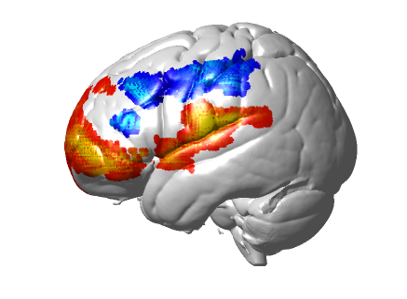
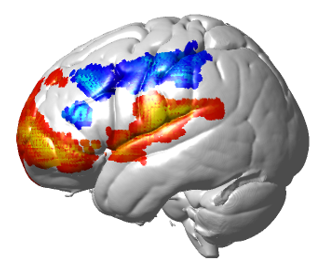
Update the public site with the revised research, lab, and lecturing pages.

diff --git a/index.html b/index.html
@@ -6,7 +6,7 @@
   <title>James Crum, PhD</title>
   <meta name="description" content="James Crum, cognitive neuroscientist and experimental psychologist at the University of Colorado Boulder.">
   <meta name="robots" content="noindex, nofollow">
-  <link rel="stylesheet" href="styles.css">
+  <link rel="stylesheet" href="styles.css?v=23">
   <link rel="icon" href="favicon.svg" type="image/svg+xml">
 </head>
 <body>
@@ -61,11 +61,30 @@
 
       <article class="block">
         <h2>Current work</h2>
-        <p>I am a cognitive neuroscientist and lecturer at the Institute of Cognitive Science and Department of Psychology and Neuroscience at the University of Colorado, Boulder. I research the neurocognitive mechanisms of cognitive security, such as how the brain is exploited by and defends against information-based threats/cognitive attacks, and what makes people more susceptible and resilient to such things during human-computer interactions. More specifically, I am a lead member of the System-Human-Interaction-NIRS-EEG (SHINE) Lab at CU, where we use mixed methods (e.g., fMRI, fNIRS, eye-tracking, machine learning, behavioral data, psychometric data, etc.) to study cognition in real-world scenarios and environments, and we are currently developing an AI companion that uses these types of data to intervene and assist people in cognitive security situations.</p>
-        <p>The measurements now are in the <a href="https://www.colorado.edu/lab/shine/people" target="_blank" rel="noopener noreferrer">SHINE Lab</a>, System-Human Interaction with NIRS and EEG, directed by Leanne Hirshfield. I record with conventional fNIRS on an AFOSR MURI on cognitive security. Hirshfield is the principal investigator. The studies put judgment in high- and low-information settings, with another person and with an AI, from a controlled task toward a more ordinary one. The lab page has the preliminary synchrony plots and the equipment proposal that would make those recordings high-density.</p>
         <a class="mark-link" href="https://www.colorado.edu/lab/shine/people" target="_blank" rel="noopener noreferrer"><img src="images/shine.png" alt="The SHINE Lab banner: System-Human Interaction with NIRS and EEG"></a>
-        <p>Cognitive Compass is an AI-augmented tool for reasoning and metacognition. I lead that work. The three screens are one internal-testing profile: a welcome and scenario path, four summary scores, and the subscales. They are not a published norm.</p>
+        <p>My research appointment is in the <a href="https://www.colorado.edu/ics/james-crum" target="_blank" rel="noopener noreferrer">Institute of Cognitive Science</a>. I am a cognitive neuroscientist and lecturer at the Institute of Cognitive Science and Department of Psychology and Neuroscience at the University of Colorado, Boulder. I research the neurocognitive mechanisms of cognitive security, such as how the brain is exploited by and defends against information-based threats/cognitive attacks, and what makes people more susceptible and resilient to such things during human-computer interactions. More specifically, I am a lead member of the System-Human-Interaction-NIRS-EEG <a href="https://www.colorado.edu/lab/shine/people" target="_blank" rel="noopener noreferrer">(SHINE) Lab</a> at CU, where we use mixed methods (e.g., fMRI, fNIRS, eye-tracking, machine learning, behavioral data, psychometric data, etc.) to study cognition in real-world scenarios and environments.</p>
+      </article>
+
+      <article class="block">
+        <h2>Ecologically-valid mixed methods</h2>
+        <p>Cognitive security is measured across settings, not in one stripped-down task. The same question is carried from a scanner, to a wearable recording of more natural behavior, to a real situation, and the person, the information environment, and the brain response are kept in the account.</p>
+        <div class="eco-pair">
+          <img class="eco-fit" src="images/eco-gradient.png" alt="Three settings of increasing ecological validity: a scanner, a person wearing a measurement cap, and two people in an ordinary setting">
+          <img src="images/info-env-b.png" alt="Panel b of the digital information environment, with occupational context, personal context, psychological susceptibility, and neurophysiological state around a person using a phone">
+        </div>
+        <figcaption>Fig. 2. Cross-laboratory adaptable testbed, beside the fuller information environment. The approach uses multimodal methods in different testing environments to investigate misinformation across a gradient of ecological validity. fMRI gives high precision for neurocognitive mechanisms. Laboratory tasks with wearable methods such as fNIRS and EEG can examine those mechanisms during natural behavior. Real-world settings capture behavior and situational context that a laboratory cannot contrive. A message on a phone can be drawn as a human–computer interaction alone. The fuller account, at right, adds occupational context, personal context, psychological susceptibility, and neurophysiological state. Linking manipulations and outcomes across methods and settings is how the work addresses what people do with misinformation in ordinary life. <a href="https://rdcu.be/dWeGO" target="_blank" rel="noopener noreferrer">Crum, Spencer, Doherty, Richardson, Sherman, Hays, Saxena, Niemeyer, Anderson, Čeko, and Hirshfield, 2024</a>, <cite>Nature Human Behaviour</cite>.</figcaption>
+        <h3>Cognitive security framework and exploitable brain structures</h3>
+        <div class="fw-pair">
+          <img src="images/framework-composite.png" alt="Four framework icons and their color key in cyan, yellow, green, and pink">
+          <img src="images/exploitable-brain.png" alt="Lateral and medial brain views colored for executive function, affect generation, and multimodal integration">
+        </div>
+        <figcaption>The four parts of the framework, with their color key: what the person brings, the information environment, the processes recruited in the moment, and the observable performance. Below, regions in that framework. Blue marks executive function, including rostral, dorsolateral, and ventrolateral prefrontal cortex. Red marks affect generation, including the amygdala. Green marks multimodal integration, including parietal and temporal cortex.</figcaption>
+        <p><a href="https://doi.org/10.1016/j.neubiorev.2025.106448" target="_blank" rel="noopener noreferrer">Crum, Allred, Bostrom, Doherty, McLain, Richardson, and Hirshfield, 2025</a>. Understanding the neurocognitive mechanisms of cognitive security. <cite>Neuroscience &amp; Biobehavioral Reviews</cite>, 106448.</p>
+      </article>
+
+      <article class="block">
         <h3>AI-augmented human processing</h3>
+        <p>We are developing Cognitive Compass, an AI companion that uses these data to support the cognitive security of individuals and teams in different contexts and environments by facilitating reasoning, metacognition, and other forms of protective processing. I lead the intervention strategy vision, the user interface design and front end, the selection of features, and AI evaluation. The three screens below are one internal-testing profile: a welcome and scenario path, four summary scores, and the subscales. They are not a published norm.</p>
         <div class="compass-board">
           <div class="compass-top">
             <figure>
@@ -84,21 +103,28 @@
         </div>
       </article>
 
-      <article class="block">
-        <h2>Ecologically-valid mixed methods</h2>
-        <p>Misinformation and cognitive security are measured across settings, not in one stripped-down task. The same question is carried from a scanner, to a wearable recording of more natural behavior, to a real situation, and the person, the information environment, and the brain response are kept in the account.</p>
-        <img class="eco-fit" src="images/eco-gradient.png" alt="Three settings of increasing ecological validity: a scanner, a person wearing a measurement cap, and two people in an ordinary setting">
-        <figcaption>Fig. 2. Cross-laboratory adaptable testbed. The approach uses multimodal methods in different testing environments to investigate misinformation across a gradient of ecological validity. fMRI gives high precision for neurocognitive mechanisms. Laboratory tasks with wearable methods such as fNIRS and EEG can examine those mechanisms during natural behavior. Real-world settings capture behavior and situational context that a laboratory cannot contrive. Linking manipulations and outcomes across methods and settings is how the work addresses what people do with misinformation in ordinary life. <a href="https://rdcu.be/dWeGO" target="_blank" rel="noopener noreferrer">Crum, Spencer, Doherty, Richardson, Sherman, Hays, Saxena, Niemeyer, Anderson, Čeko, and Hirshfield, 2024</a>, <cite>Nature Human Behaviour</cite>.</figcaption>
-        <img class="wide" src="images/info-env.png" alt="Diagram of a digital information environment, from a phone alone to occupational context, personal context, psychological susceptibility, and neurophysiological state">
-        <figcaption>A message on a phone can be drawn as a human–computer interaction alone (a). The fuller account adds occupational context, personal context, psychological susceptibility, and neurophysiological state (b). Crum and others, 2024, <cite>Nature Human Behaviour</cite>.</figcaption>
-        <h3>Cognitive security framework</h3>
-        <img src="images/framework-composite.png" alt="Four framework icons and their color key in cyan, yellow, green, and pink">
-        <figcaption>The four parts of the framework, with their color key: what the person brings, the information environment, the processes recruited in the moment, and the observable performance.</figcaption>
-        <p><a href="https://doi.org/10.1016/j.neubiorev.2025.106448" target="_blank" rel="noopener noreferrer">Crum, Allred, Bostrom, Doherty, McLain, Richardson, and Hirshfield, 2025</a>. Understanding the neurocognitive mechanisms of cognitive security. <cite>Neuroscience &amp; Biobehavioral Reviews</cite>, 106448.</p>
-        <h3>Exploitable brain structures</h3>
-        <img class="wide" src="images/exploitable-brain.png" alt="Lateral and medial brain views colored for executive function, affect generation, and multimodal integration">
-        <figcaption>Regions in the 2025 framework. Blue marks executive function, including rostral, dorsolateral, and ventrolateral prefrontal cortex. Red marks affect generation, including the amygdala. Green marks multimodal integration, including parietal and temporal cortex. Crum and others, 2025, <cite>Neuroscience &amp; Biobehavioral Reviews</cite>.</figcaption>
-      </article>
+      <section class="section">
+        <h2>Talks and events</h2>
+        <p>Linked items have a public page. The others are invited talks and briefings from the curriculum vitae.</p>
+        <figure class="talk-feature">
+          <img src="images/cognectcon.jpg" alt="James Crum speaking at a podium during CognectCon, with a slide introducing his talk on the neurocognitive mechanisms of cognitive security">
+          <figcaption>Speaking at CognectCon for the Cognitive Security Institute, February 2026. The talk was on the neurocognitive mechanisms of cognitive security and what they imply for research and practice.</figcaption>
+        </figure>
+        <ol class="papers">
+          <li><a href="https://www.colorado.edu/psych-neuro/2026/01/06/james-crum-explores-resilience-disinformation-sciencedirect" target="_blank" rel="noopener noreferrer">James Crum explores resilience to disinformation in ScienceDirect</a><span>Department of Psychology and Neuroscience, University of Colorado Boulder. January 6, 2026.</span></li>
+          <li>Cognitive security<span>Invited briefing, NATO Cognitive Warfare Group. 2026.</span></li>
+          <li>Cognitive security and its mitigation<span>Invited talk, Trust and Influence Program Review, Air Force Office of Scientific Research, Albuquerque, New Mexico. 2026.</span></li>
+          <li>Understanding the neurocognitive mechanisms of individual cognitive security<span>Invited talk, Cognitive Security Institute. 2026.</span></li>
+          <li>Concurrent neuroimaging at CU: advantages, challenges, and lessons learned<span>Invited talk, Intermountain Neuroimaging Consortium, Neuroimaging Methods. 2026.</span></li>
+          <li>Understanding the neurocognitive mechanisms of cognitive security: implications for research and practice<span>Invited talk, CognectCon, a workshop of the Cognitive Security Institute and the National Institute of Standards and Technology on human-centered cybersecurity standards. February 2026.</span></li>
+          <li><a href="https://calendar.colorado.edu/event/ics-colloquium-sandra-ristovska-phd-associate-professor-college-of-media-communication-and-information-university-of-colorado-boulder" target="_blank" rel="noopener noreferrer">Using ecological neuroscience to understand cognitive security</a><span>ICS Colloquium, Institute of Cognitive Science, University of Colorado Boulder. April 18, 2025. Muenzinger Psychology, D430.</span></li>
+          <li>Cognitive security and its mitigation<span>Invited talk, Trust and Influence Program Review, Air Force Office of Scientific Research, Rome, New York. 2025.</span></li>
+          <li>Real-world neuroimaging: fNIRS and beyond<span>Invited talk, CogLunch, Institute of Cognitive Science, University of Colorado Boulder. 2024.</span></li>
+          <li>3D digitizing for fNIRS<span>Invited talk, NIRx training workshop, Denver, Colorado. 2024.</span></li>
+          <li>Cognitive security<span>Invited briefing, NATO Cognitive Warfare Group. 2024.</span></li>
+          <li>Cognitive security<span>Invited talk, U.S. Army Research Laboratory. 2024.</span></li>
+        </ol>
+      </section>
 
       <section class="section">
         <h2>Selected papers</h2>
@@ -130,7 +156,7 @@
         <li>Built the first neuroimaging course for the United States Air Force Academy, 2024.</li>
         <li>Earlier teaching at University College London: teaching assistant for The Psychology of Individual Differences, and instructor for methods workshops.</li>
       </ul>
-      <p>The research appointment is in the <a href="https://www.colorado.edu/ics/james-crum" target="_blank" rel="noopener noreferrer">Institute of Cognitive Science</a>. The teaching appointment is in Psychology and Neuroscience.</p>
+      <p>The lectureship appointment is in the Department of Psychology and Neuroscience at the University of Colorado, Boulder.</p>
     </section>
 
     <section class="view" id="lab">
@@ -152,33 +178,34 @@
       <article class="block">
         <h2>Human–AI teams under cognitive security threats</h2>
         <p>The lab studies how a small team stays coordinated with each other and with an AI when the information is incomplete, contested, or unreliable. People form and update a picture of the situation, of the AI, and of one another, then decide whether to accept or override what the AI recommends.</p>
+        <img class="diagram" src="images/team-ai.jpg" alt="Three people around a table talking over a laptop, where an AI teammate shows an uncertain recommendation">
+        <figcaption>A small team works out the situation with one another and with an AI teammate when the recommendation is uncertain.</figcaption>
         <p>The measurement is mixed. Inter-brain synchrony, from high-density diffuse optical tomography recorded in two or three people at once, is read together with speech, facial expression, gaze, and the decision. Synchrony is computed over the timescales of the interaction and compared with shuffled teams.</p>
         <p>Three questions organize the work. Synchrony should rise as a team moves from working separately to deciding together, and synchrony on the slower timescales, about 8 to 16 seconds, should track the quality of the joint decision. Unreliable AI assistance, interface anomalies, or degraded cues should change that synchrony relative to a matched baseline and worsen the accept-or-override decision. Speech, gaze, face, and behavior, added to the neural measure, should predict who stays resilient and who does not better than synchrony alone.</p>
-        <img class="wide" src="images/hai-levels.png" alt="Diagram of cognitive resilience in human-AI teams, from the information environment and threat conditions, through team processes and multimodal measurement, to outcomes such as calibrated trust and decision quality">
+        <img class="diagram" src="images/hai-levels.png" alt="Diagram of cognitive resilience in human-AI teams, from the information environment and threat conditions, through team processes and multimodal measurement, to outcomes such as calibrated trust and decision quality">
         <figcaption>Levels of analysis for this work. The information environment sets threat and target conditions. Team processes include metacognition, trust, coordination, and the human decision passed to the AI. Measurement joins dynamic inter-brain synchrony with behavior, speech, face, and gaze. The outcomes are calibrated trust, joint performance, and decision quality under uncertainty.</figcaption>
       </article>
       <article class="block">
         <h2>Naturalistic Paradigms and Inter-Brain Synchrony</h2>
         <p>The measure is inter-brain synchrony: wavelet coherence between hemodynamic signals, locked to speech and gaze, and compared with shuffled pairs. The MURI caps now are conventional fNIRS. They can show synchrony. They do not reconstruct it onto cortex the way high-density diffuse optical tomography would. The first recordings after installation would be dyads in cognitive-security tasks. Later recordings would code agreement, disagreement, and repair of a mental model, and would test whether a team-state summary can be computed while the interaction is still going. That last step is methods work. It is not a fielded tool.</p>
-        <img src="images/dyad.png" alt="Two people wearing headcaps, seated at one desk, each with a keyboard, sharing a task on a monitor">
-        <figcaption>A two-person recording of the kind this work already uses. Both people wear headgear and share a task. High-density caps replace a sparse optical montage for this recording.</figcaption>
-        <div class="pair ibs-cite">
+        <div class="sync-board">
+          <img src="images/dyad.png" alt="Two people wearing headcaps, seated at one desk, each with a keyboard, sharing a task on a monitor">
           <img src="images/ifg-coherence.png" alt="Coherence between partners in inferior frontal gyrus, with clinical and control traces across period">
           <img src="images/clinical-brain.png" alt="Lateral view of a brain with red and blue activation from a clinical interaction contrast">
         </div>
-        <figcaption>Inter-brain coherence in inferior frontal gyrus during a clinical interaction compared with a control, and the cortical contrast from the same study. Red in the plot is the clinical condition. <a href="https://doi.org/10.1016/j.bpsc.2022.01.008" target="_blank" rel="noopener noreferrer">Crum, Zhang, Noah, Hamilton, Tachtsidis, Burgess, and Hirsch, 2022</a>, <cite>Biological Psychiatry: Cognitive Neuroscience and Neuroimaging</cite>. A methods paper, not a treatment study.</figcaption>
+        <figcaption>Left, a two-person recording of the kind this work already uses. Both people wear headgear and share a task. High-density caps replace a sparse optical montage for this recording. Center, inter-brain coherence in inferior frontal gyrus during a clinical interaction compared with a control. Red is the clinical condition. Right, the cortical contrast from the same study. <a href="https://doi.org/10.1016/j.bpsc.2022.01.008" target="_blank" rel="noopener noreferrer">Crum, Zhang, Noah, Hamilton, Tachtsidis, Burgess, and Hirsch, 2022</a>, <cite>Biological Psychiatry: Cognitive Neuroscience and Neuroimaging</cite>. A methods paper, not a treatment study.</figcaption>
       </article>
 
       <div class="figure-pair">
         <article class="block">
           <h2>Social timescales</h2>
-          <img src="images/timescales.png" alt="Plot of social timescales, with frequency against period, and four bins from reactive coordination to global interaction states">
+          <img src="images/timescales.png?v=2" alt="Plot of social timescales, with frequency against period, and four bins from reactive coordination to global interaction states">
           <figcaption>Social interaction differs across timescales. Faster phenomena, such as reactive coordination, rapid mutual gestures, quick turn-taking, bursts of shared attention, and speaking while the other listens, fall at higher frequencies and shorter periods (blue bin). Slower phenomena, such as joint planning, problem solving, and global states of engagement or affective alignment, fall at lower frequencies and longer periods (yellow and pink bins). Computing inter-brain synchrony in these bins separates those phenomena during teaming and security tasks, and shows how much each timescale contributes to behavior in a given brain area.</figcaption>
         </article>
         <article class="block">
           <h2>Preliminary synchrony, from the MURI</h2>
           <img src="images/ibs-prelim.png" alt="Panel A, four social timescales, and panel B, coherence over time in four frequency bands for ventrolateral prefrontal cortex and inferior parietal cortex">
-          <figcaption>(A) Social timescales, as in the figure above. (B) Inter-brain synchrony for ventrolateral prefrontal cortex and inferior parietal cortex, over time, in four frequency bands. The traces are preliminary MURI findings. In the long band (16.2–20.0 s, n = 58) synchrony differed between the Misinfo_Sim and Baseline traces (p &lt; .01). The three shorter bands in that pair of regions did not (p = .34, .71, and .72). This is not a published result.</figcaption>
+          <figcaption>(A) Social timescales, as in the figure above. (B) Inter-brain synchrony for ventrolateral prefrontal cortex and inferior parietal cortex, over time, in four frequency bands. The traces are preliminary MURI findings.</figcaption>
         </article>
       </div>
     </section>

diff --git a/styles.css b/styles.css
@@ -172,11 +172,47 @@ h3 { font-size: 1.25rem; margin: 0 0 0.35rem; }
   max-height: none;
 }
 
-.block img.eco-fit {
-  width: auto;
-  max-width: min(100%, 520px);
+.block img.diagram {
+  width: 100%;
+  max-width: 720px;
+  max-height: none;
+}
+
+.eco-pair {
+  display: grid;
+  grid-template-columns: 0.989fr 1.19fr;
+  gap: 0.75rem;
+  align-items: start;
+  margin: 0.15rem 0 0.1rem;
+}
+
+.block .eco-pair img,
+.block .eco-pair img.eco-fit {
+  width: 100%;
+  max-width: none;
   max-height: none;
   height: auto;
+}
+
+.block figcaption + h3 { margin-top: 1.15rem; }
+
+.fw-pair {
+  display: grid;
+  grid-template-columns: 1fr;
+  gap: 0.85rem;
+  align-items: start;
+  margin-top: 0.2rem;
+}
+
+.block .fw-pair img {
+  width: 100%;
+  max-width: none;
+  max-height: none;
+  height: auto;
+}
+
+.block .fw-pair img:first-child {
+  max-width: 720px;
 }
 
 .brains {
@@ -193,13 +229,24 @@ h3 { font-size: 1.25rem; margin: 0 0 0.35rem; }
   max-height: 260px;
 }
 
-.ibs-cite { margin-top: 0.9rem; }
+.sync-board {
+  display: grid;
+  grid-template-columns: repeat(3, minmax(0, 1fr));
+  gap: 0.75rem;
+  align-items: stretch;
+  margin: 0.35rem 0 0.1rem;
+}
 
-.ibs-cite img {
+.block .sync-board img {
   width: 100%;
-  max-width: 100%;
+  max-width: none;
   max-height: none;
   height: auto;
+  aspect-ratio: 6 / 5;
+  object-fit: contain;
+  object-position: center;
+  padding: 0.35rem;
+  background: #fff;
 }
 
 .compass-board {
@@ -249,6 +296,19 @@ a.mark-link img {
 
 .trio { grid-template-columns: repeat(3, 1fr); }
 
+.talk-feature {
+  margin: 0.6rem 0 0.2rem;
+}
+
+.talk-feature img {
+  display: block;
+  width: 100%;
+  max-width: 820px;
+  height: auto;
+  background: white;
+  border: 1px solid var(--line);
+}
+
 figcaption {
   color: var(--muted);
   font-size: 0.92rem;
@@ -292,19 +352,24 @@ ul.plain { margin: 0.3rem 0 0; padding-left: 1.15rem; }
 
 .figure-pair {
   display: grid;
-  grid-template-columns: 1fr 1fr;
-  gap: 1.2rem;
+  grid-template-columns: 1.775fr 1.303fr;
+  column-gap: 1.2rem;
   align-items: start;
 }
 
-.figure-pair .block { margin-top: 1rem; }
+.figure-pair .block {
+  display: grid;
+  grid-template-rows: subgrid;
+  grid-row: span 3;
+  margin-top: 1rem;
+}
 
 .figure-pair img {
   width: 100%;
   max-width: 100%;
   max-height: none;
   height: auto;
-  aspect-ratio: 907 / 696;
+  aspect-ratio: auto;
   object-fit: contain;
   object-position: center;
   background: #fff;
@@ -341,7 +406,7 @@ footer {
 footer p { max-width: var(--max); margin: 0 auto; }
 
 @media (max-width: 800px) {
-  .home-top, .pair, .trio, .split, .place-row, .figure-pair, .compass-top { grid-template-columns: 1fr; }
+  .home-top, .pair, .trio, .split, .place-row, .figure-pair, .compass-top, .eco-pair, .fw-pair, .sync-board { grid-template-columns: 1fr; }
   .portrait { justify-self: start; }
   h1 { font-size: 2.2rem; }
 }
